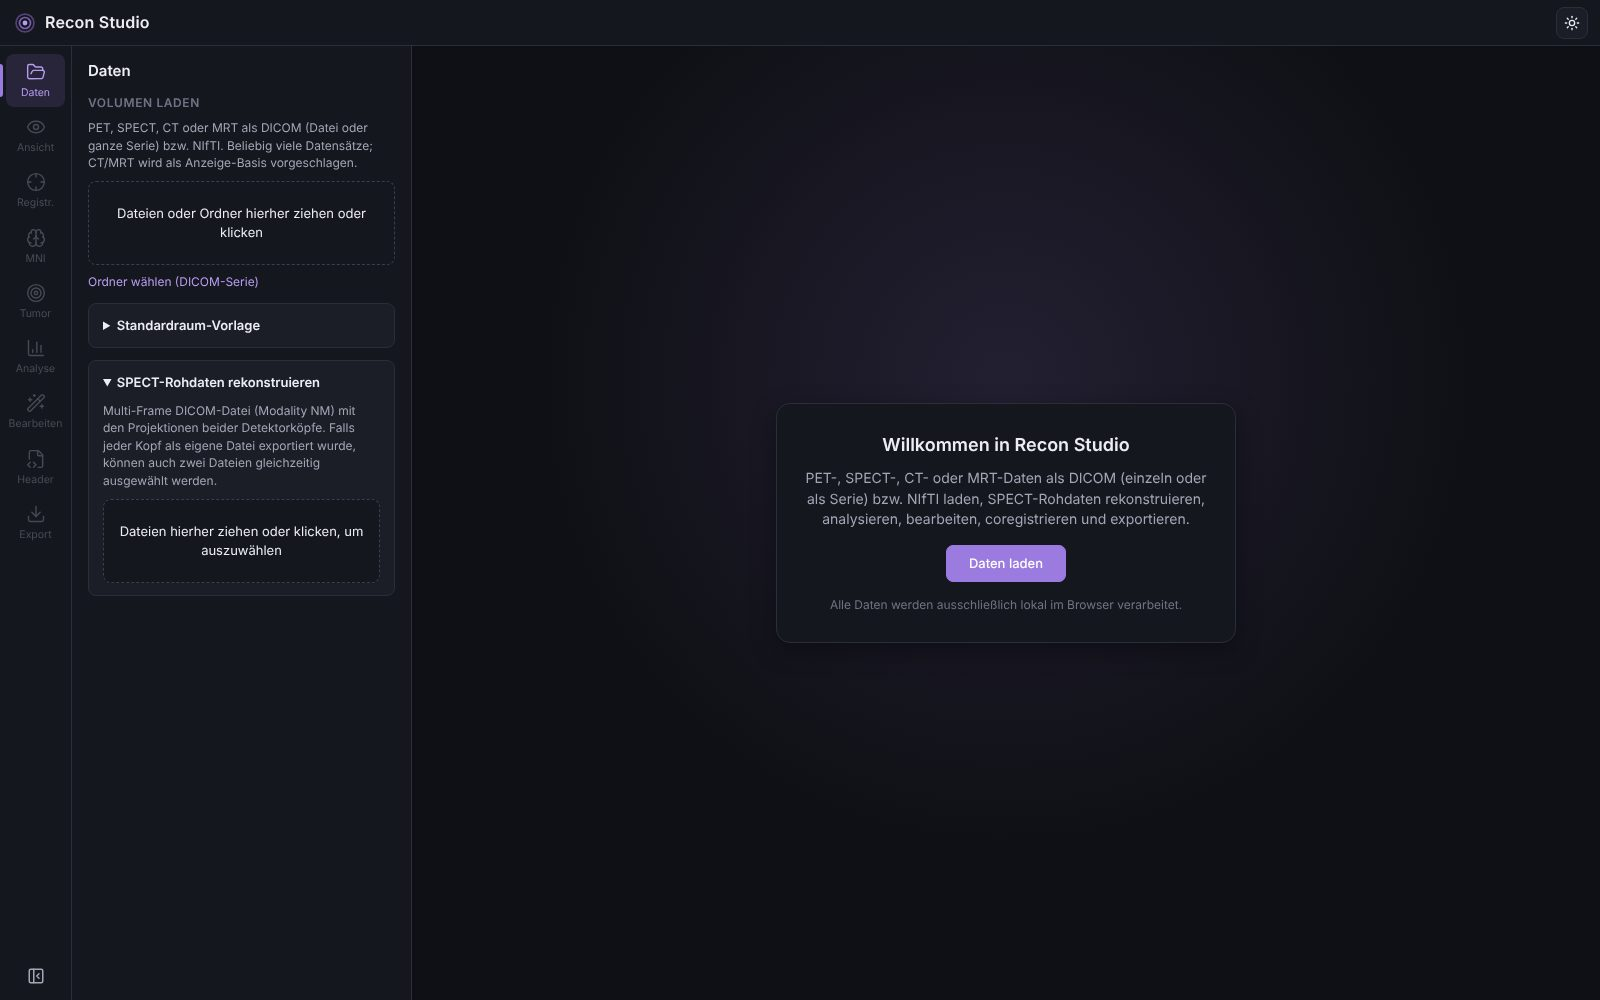
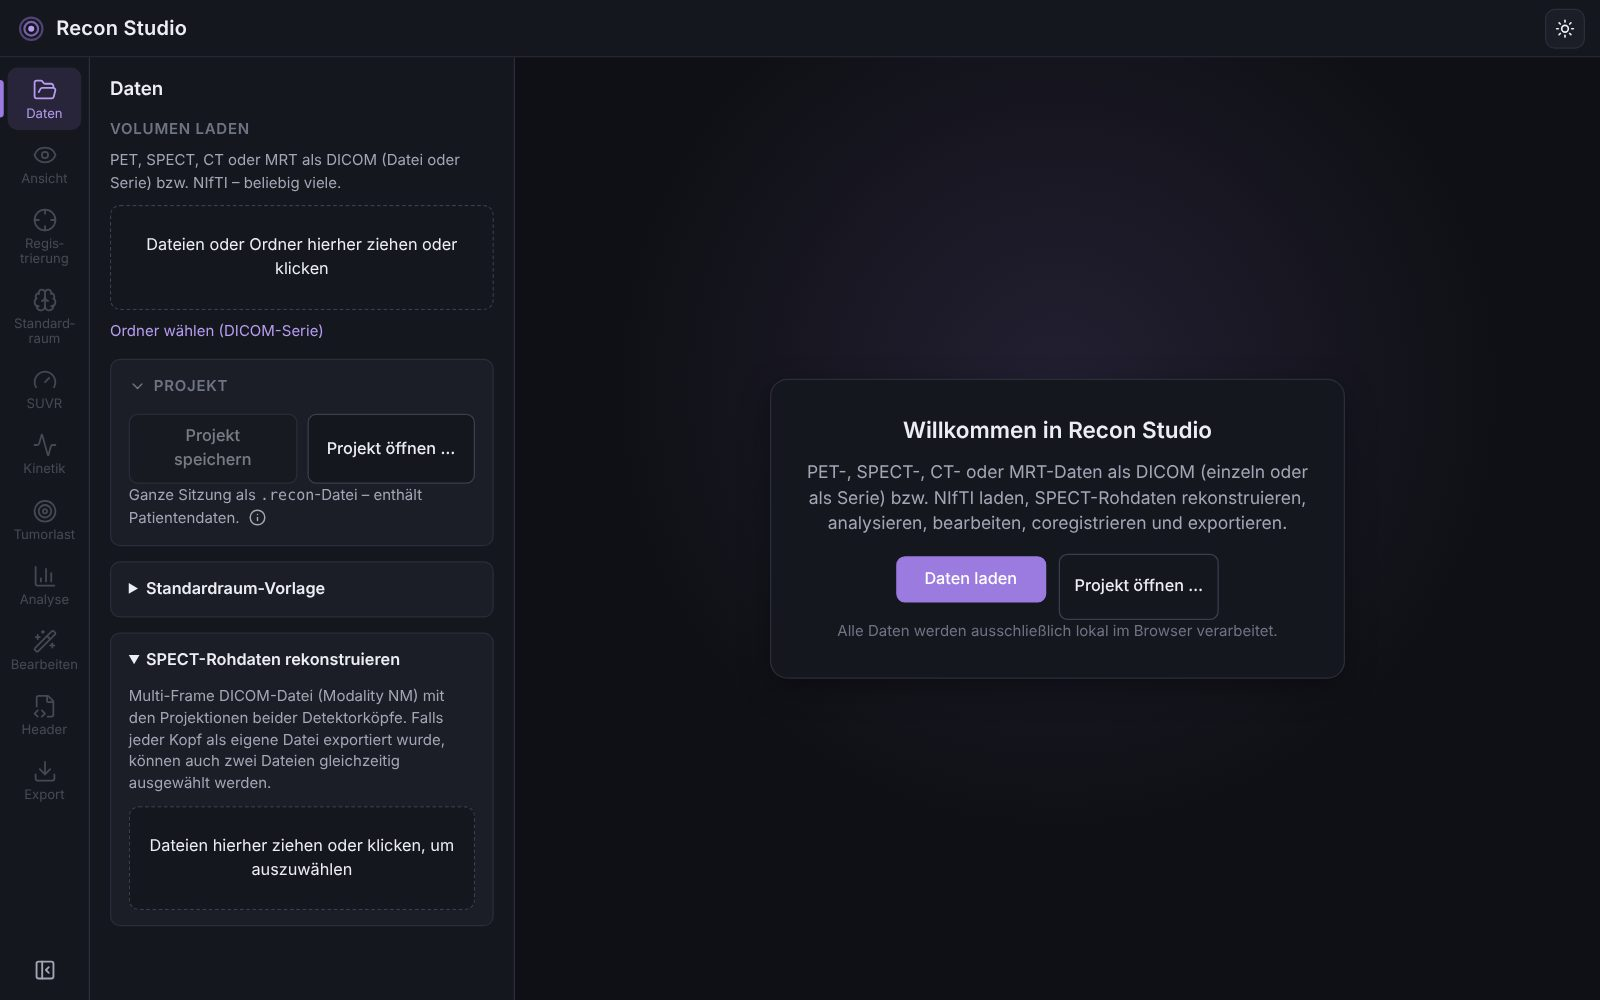
Handbuch und README: Aktivitätsanzeige, Datensatzliste, zurückhaltendes Einblenden, Projektdatei, Karten, Farbskala, große Tabellen, Bereich Centiloid & SUVR; neue Screenshots
Claude-Session: https://claude.ai/code/session_0193t6cZ8YpywZQWotSSRSJ4

diff --git a/src/App.css b/src/App.css
@@ -2212,3 +2212,13 @@ tr.excluded-row td {
 .welcome-actions .secondary-btn {
   width: auto;
 }
+.inline-select {
+  max-width: 100%;
+  padding: 2px 6px;
+  border-radius: 6px;
+  border: 1px solid var(--border);
+  background: var(--surface-2);
+  color: var(--text-h);
+  font: inherit;
+  font-size: 12px;
+}

diff --git a/MANUAL.md b/MANUAL.md
@@ -26,18 +26,25 @@ Beispieldaten (keine Patientendaten).
 
 ![Startbildschirm](docs/images/01-start.jpg)
 
-- **Linke Leiste**: die Arbeitsbereiche *Daten, Ansicht, Registrierung, MNI (Standardraum), Tumor, Analyse,
-  Bearbeiten, Header, Export*. Ein Klick auf den aktiven Bereich klappt das Seitenpanel ein und aus (ebenso das
-  Symbol unten links).
+- **Linke Leiste**: die Arbeitsbereiche *Daten, Ansicht, Registrierung, Standardraum, Centiloid & SUVR (SUVR), Kinetik,
+  Tumorlast, Analyse, Bearbeiten, Header, Export*. Ein Klick auf den aktiven Bereich klappt das Seitenpanel ein und aus
+  (ebenso das Symbol unten links). Ausgegraute Bereiche nennen im Tooltip den Grund (z. B. „Header nur für DICOM“).
+  Beim Wechsel des Bereichs bleibt alles erhalten – laufende Berechnungen, Ergebnisse, aufgeklappte Karten.
 - **Seitenpanel**: Die Breite lässt sich am rechten Rand mit der Maus ziehen (Doppelklick = Standardbreite; mit
   Tastaturfokus ←/→). Die Breite bleibt im Browser gespeichert – praktisch für breite Ergebnistabellen.
   Längere Erläuterungen (Methodik, Literatur, Formate) stecken hinter dem **ⓘ** neben der Kartenüberschrift.
-- **Kopfzeile**: ein Chip je geladenem Datensatz (Modalität, Schlagwort, Dateiname; *Ref* = Referenz/Basis).
-  Ein Klick auf einen Chip macht den Datensatz **aktiv** – darauf beziehen sich Analyse, Bearbeiten, Header und Export.
-  Rechts oben: helles/dunkles Design.
+  **Karten** lassen sich per Klick auf die Überschrift auf- und zuklappen; rechts steht ihr Status (z. B.
+  *✓ korrigiert*, *läuft*, *25 Frames*). Erledigte Schritte (z. B. Bewegungskorrektur, Normalisierung) klappen von
+  selbst zu.
+- **Kopfzeile**: die **Aktivitätsanzeige** – laufende Berechnungen (Laden, Registrierung, Normalisierung,
+  CT-Segmentierung, Kinetik, Centiloid, Export …) mit Fortschritt, kurz *fertig* nach Abschluss, Fehler mit ⚠.
+  Ein Klick öffnet den zuständigen Bereich (dort lässt sich abbrechen). Ohne laufende Aufgabe steht dort die Zahl der
+  geladenen Datensätze. Rechts oben: helles/dunkles Design.
 - **Viewer** (rechts): Layout 2×2, 1+3 oder Einzelbild, *Zoom zurücksetzen*, *Screenshot* (PNG).
-  Rechts in der Viewer-Leiste: **Ebenen** (siehe [Abschnitt 4](#4-ansicht-ebenen-und-fusion)) und **?** (Maus- und
-  Tastenbedienung).
+  Rechts in der Viewer-Leiste: **Skala** (Farbskala ein/aus), **Ebenen** (siehe
+  [Abschnitt 4](#4-ansicht-ebenen-und-fusion)) und **?** (Maus- und Tastenbedienung).
+  Die **Farbskala** unten links zeigt für jede farbige Ebene Farbtabelle und Fenster (Min/Max in SUV, HU, BP_ND …) und
+  bei Labelbildern die Region unter dem Cursor; sie erscheint auch im Screenshot.
   Statuszeile unten: Position in mm (Patientenkoordinaten LPS) und die Werte aller sichtbaren Ebenen unter dem
   Fadenkreuz – je Ebene mit Farbbalken ihrer Farbtabelle, Modalität und Schlagwort bzw. Dateiname; bei Labelbildern
   der Name der Region.
@@ -66,25 +73,43 @@ Alles wird lokal im Browser berechnet; Daten werden nirgendwohin hochgeladen.
    - DICOM: Einzeldatei, Serie oder Multi-Frame, auch Dateien ohne Endung (macOS-Exporte).
    - NIfTI: `.nii` oder `.nii.gz`.
    - Mehrere Serien in einem Upload werden **getrennt** geladen; nicht lesbare Dateien werden übersprungen und gemeldet.
-3. Jeder Datensatz erscheint als Karte (Modalität, Matrix, Voxelgröße, Patientenkoordinaten).
+3. **Was eingeblendet wird**: Der erste Datensatz ist die Basis der Ansicht; ein CT/MRT derselben Körperregion wird
+   Basis, ein PET/SPECT derselben Region (oder mit gleichem Frame of Reference) wird darüber eingeblendet, ebenso
+   Labelbilder auf dem Raster eines angezeigten Datensatzes. Alles andere – z. B. ein zweites PET, ein T1 neben einem
+   Ganzkörper-CT, Daten einer anderen Region – wird geladen, aber **nicht eingeblendet**; ein Hinweis unten rechts nennt
+   diese Datensätze. Einblenden über **Ebenen** im Viewer oder das Auge in der Datensatzliste.
+4. **Datensatzliste**: eine Zeile je Datensatz mit Modalität (farbig), Schlagwort, Name und *Basis*-Markierung.
+   - Klick auf die Zeile: Details (Modalität, Quelle, Matrix, Voxelgröße, Koordinaten, Dynamik) und Schlagwort.
+   - 👁 ein-/ausblenden · ✎ **aktiv** setzen – darauf beziehen sich Analyse, Bearbeiten, Header und Export.
+   - ⋯: *Als Basis der Ansicht*, *Datensatz entfernen*.
    - **Modalität bei NIfTI**: NIfTI-Dateien enthalten keine Modalität. Recon Studio erkennt sie aus einer
      BIDS-JSON-Datei, dem Dateinamen (`_pet`, `_T1w`, `ct`, `spect` …), dynamischen Daten (→ PET) oder dem
      Wertebereich (Luft und Knochen → CT). Die Auswahl *Modalität* in der Karte korrigiert eine falsche Erkennung;
      davon hängen u. a. Anzeige-Basis, CT-Fensterpresets und die Vorauswahl in Registrierung, Centiloid und Tumorlast ab.
-   - **Schlagwort** eintragen (z. B. *Baseline*, *Follow-up*, *CT nativ*) – es erscheint überall in Auswahllisten und
-     in der Kopfzeile.
-   - *Als Referenz*: Datensatz definiert den Anzeigeraum (Basis). CT/MRT wird automatisch Basis.
-   - *Als Overlay* / *Overlay aus*: über der Basis einblenden.
-   - *Bearbeiten/Export*: Datensatz aktiv machen.
-   - *×*: Datensatz entfernen.
-4. **Labelbilder** (Atlas, CT-Organe, Läsionsmasken) werden beim Laden automatisch erkannt und als farbiges
+   - **Schlagwort** eintragen (z. B. *Baseline*, *Follow-up*, *CT nativ*) – es erscheint überall in Auswahllisten,
+     Statuszeile und Ebenen.
+5. **Labelbilder** (Atlas, CT-Organe, Läsionsmasken) werden beim Laden automatisch erkannt und als farbiges
    Label-Overlay mit Regionsnamen angelegt, wenn
    - die Datei aus Recon Studio exportiert wurde (Regionsnamen stehen im NIfTI-Header),
    - es eine TotalSegmentator-Ausgabe ist,
    - eine Tabelle mit gleichem Namen mitgeladen wird (z. B. `AAL3v1.nii` + `AAL3v1.nii.txt`), oder
    - der Dateiname auf ein Labelbild hindeutet (`…_seg`, `…_dseg`, `labels`, `aseg` …).
-5. Unter **Standardraum-Vorlage** (aufklappen) lassen sich MNI- und SPM-Vorlagen oder eigene Vorlagen laden
+6. Unter **Standardraum-Vorlage** (aufklappen) lassen sich MNI- und SPM-Vorlagen oder eigene Vorlagen laden
    (siehe [Abschnitt 6](#6-standardraum-mni-atlas-und-suvr)).
+
+### Projekt speichern und öffnen
+
+Karte **Projekt** im Bereich *Daten*:
+
+- **Projekt speichern** legt die ganze Sitzung als eine Datei `Recon-Projekt_….recon` ab. Sie enthält:
+  - alle Datensätze (DICOM-Originaldateien mit Header, NIfTI-Volumen, Bearbeitungen, dynamische Frames,
+    Labelbilder mit Regionsnamen, Vorlagen);
+  - Registrierungen, Schlagworte, Anzeige (Basis, Ebenen, Fenster, Farbtabellen) und die Normalisierung;
+  - Centiloid- und Tumorlast-Ergebnisse.
+- Kinetik-Tabellen und Label-Analysen werden nach dem Öffnen per Klick neu berechnet.
+- **Projekt öffnen …** (auch auf der Startseite oder per Ziehen der `.recon`-Datei ins Ladefeld) ersetzt die
+  aktuelle Sitzung nach Rückfrage.
+- Die Datei enthält die Patientendaten der geladenen Bilder – vertraulich behandeln.
 
 ---
 
@@ -160,7 +185,7 @@ schaltet die Liste wieder aus; der Zustand bleibt gespeichert.
 ![Vorlage und Normalisierung](docs/images/14-mni-einstellungen.jpg)
 
 1. Subjekt-Datensätze laden (z. B. T1-MRT + PET) und das PET zuerst auf das T1 registrieren ([Abschnitt 5](#5-registrierung-coregistrierung)).
-2. Bereich **MNI** öffnen, unter *Vorlage* den Standardraum wählen bzw. laden:
+2. Bereich **Standardraum** öffnen, unter *Vorlage* den Standardraum wählen bzw. laden:
    - *MNI152 2009c (T1, 2 mm)* für T1-MRT,
    - *SPM12 PET* (Perfusion) für Hirn-PET ohne MRT, *SPM12 SPECT* für Perfusions-SPECT,
    - eigene Vorlagen im Bereich *Daten* → *Standardraum-Vorlage* (z. B. Amyloid-PET-Vorlage, auch 4D/adaptiv).
@@ -177,25 +202,28 @@ schaltet die Liste wieder aus; der Zustand bleibt gespeichert.
 1. Karte **In Standardraum übertragen**: Datensätze anhaken, die mit dem Subjekt registriert sind (z. B. das PET).
 2. Interpolation wählen, **Übertragen**. Jeder Datensatz wird über seine Registrierung und die Normalisierung des
    Subjekts in den Standardraum resampelt und als `… · MNI152 …` angelegt.
-3. **SPM/CAT12**: ein in SPM/CAT12 berechnetes Verformungsfeld `y_*.nii` laden (statt selbst zu normalisieren) bzw.
+3. **SPM/CAT12** (Karte aufklappen): ein in SPM/CAT12 berechnetes Verformungsfeld `y_*.nii` laden (statt selbst zu normalisieren) bzw.
    die App-Normalisierung als `y_*.nii` speichern.
 
 ### 6.3 Atlas und SUVR
 
 ![Regionale SUVR mit CerebrA](docs/images/16-atlas-suvr.png)
 
-1. Karte **Atlas & SUVR**: *CerebrA-Atlas laden* (102 Regionen, mitgeliefert) oder *Eigener Atlas …*
+1. Bereich **Centiloid & SUVR** (Leiste: *SUVR*), Karte **Atlas & SUVR**: *CerebrA-Atlas laden* (102 Regionen, mitgeliefert) oder *Eigener Atlas …*
    (Labelbild + Tabelle, oder direkt die AAL3-ZIP-Datei von [gin.cnrs.fr](https://www.gin.cnrs.fr/en/tools/aal/)).
 2. **Datensatz** im Standardraum wählen (z. B. das übertragene PET).
 3. **Referenzregion**: Kleinhirnrinde, Kleinhirn gesamt, Pons/Hirnstamm, ganzes Gehirn oder *Eigene Auswahl …*.
 4. **Regionen auswerten** – Tabelle mit Volumen, Mittelwert und SUVR; sortierbar nach Name, Index oder SUVR.
 5. *Tabelle als CSV* exportieren oder *SUVR-Bild anlegen* (neuer Datensatz = Bild / Referenzmittel).
+   Mit **⤢** über der Tabelle öffnet sie sich groß über dem Viewer.
 
 ---
 
 ## 7. Centiloid
 
 ![Centiloid-Karte](docs/images/17-centiloid.png)
+
+Bereich **Centiloid & SUVR** (Leiste: *SUVR*), Karte **Centiloid**.
 
 1. **Centiloid-VOIs laden …**: `Centiloid_Std_VOI.zip` von GAAIN herunterladen (Link in der Karte) und die ZIP-Datei
    direkt auswählen. Die VOIs werden wegen der GAAIN-Nutzungsbedingungen nicht mitgeliefert.
@@ -307,7 +335,7 @@ Die Frames sollten zerfallskorrigiert sein; bei nicht korrigierten DICOM-Daten w
 
 ![Segmentierung läuft](docs/images/20-ct-segmentierung-laeuft.jpg)
 
-1. CT laden, Bereich **Tumor** öffnen.
+1. CT laden, Bereich **Tumorlast** öffnen.
 2. Karte **CT-Organsegmentierung**: CT wählen → **Organe segmentieren**.
    - Beim ersten Mal wird das Modell (≈ 66 MB) geladen und im Browser gespeichert.
    - Mit WebGPU (Chrome/Edge) läuft es auf der Grafikkarte, sonst auf der CPU (Hinweis in Gelb).
@@ -327,7 +355,7 @@ Die Frames sollten zerfallskorrigiert sein; bei nicht korrigierten DICOM-Daten w
 
 ![Einstellungen Tumorlast](docs/images/22-tumorlast-einstellungen.jpg)
 
-1. PET (und optional CT mit Organsegmentierung) laden; Bereich **Tumor**.
+1. PET (und optional CT mit Organsegmentierung) laden; Bereich **Tumorlast**.
 2. Indikation wählen: **Lymphom (FDG)** oder **PSMA** – setzt passende Methoden und Ausschlussorgane.
 3. **PET** wählen. Bei DICOM mit Dosis/Gewicht wird in SUV gerechnet; sonst erscheint ein Hinweis
    (Werte werden direkt als SUV interpretiert).
@@ -354,7 +382,11 @@ Die Frames sollten zerfallskorrigiert sein; bei nicht korrigierten DICOM-Daten w
 
 Bereich **Analyse**.
 
-### 10.1 Alle Datensätze und Detailanalyse
+**Große Tabellen**: Der Knopf **⤢** über jeder Ergebnistabelle (hier, in Atlas & SUVR, Centiloid, Kinetik und
+Tumorlast) öffnet sie groß über dem Viewer – mit Suche, Sortierung per Klick auf den Spaltenkopf und **CSV**-Export.
+Ein Klick auf eine Zeile wirkt wie in der kleinen Tabelle (z. B. Region ins Histogramm). Schließen mit ✕ oder Esc.
+
+### 11.1 Alle Datensätze und Detailanalyse
 
 ![Übersicht aller Datensätze](docs/images/30-analyse-alle-datensaetze.png)
 
@@ -365,7 +397,7 @@ Bereich **Analyse**.
 3. **Detailanalyse**: Einheit (Originalwerte oder **SUV** aus dem DICOM-Header), Statistik und **Histogramm**
    (Bins, log. Skala, *ohne unterste Bin*).
 
-### 10.2 Label-Analyse
+### 11.2 Label-Analyse
 
 ![Label-Analyse](docs/images/31-label-analyse-karte.png)
 
@@ -438,7 +470,8 @@ Bereich **Export** (aktiver Datensatz):
    3. Interpolation (nächster Nachbar, trilinear, B-Spline; Labelbilder immer nächster Nachbar).
    4. Format *DICOM* (Header der Quelle, Geometrie und Frame of Reference des Ziels) oder *NIfTI* → *Exportieren*.
 3. Fusionen: Bereich **Ansicht** → *Fusion exportieren* ([Abschnitt 4](#4-ansicht-ebenen-und-fusion)).
-   Analyse-Tabellen: CSV-Knöpfe in den jeweiligen Karten.
+   Analyse-Tabellen: CSV-Knöpfe in den jeweiligen Karten oder **⤢** → *CSV*.
+4. Ganze Sitzung: **Projekt speichern** im Bereich *Daten* ([Abschnitt 2](#projekt-speichern-und-öffnen)).
 
 ---
 
@@ -457,3 +490,5 @@ Bereich **Export** (aktiver Datensatz):
 - **Registrierung weit daneben** (Daten aus verschiedenen Untersuchungen): *Grobsuche* aktivieren, ggf. *Affin* wählen.
 - **Hirnatlas liefert keine Regionen**: Der Datensatz muss im MNI-Raum liegen (Abschnitt 6).
 - **Lange Dateinamen** im Panel: Schlagworte vergeben – sie ersetzen die Namen in Auswahllisten weitgehend.
+- **Datensatz nach dem Laden nicht sichtbar**: Er wurde absichtlich nicht eingeblendet (andere Region, zweites PET …) –
+  über **Ebenen** oder das Auge in der Datensatzliste einblenden.

diff --git a/README.md b/README.md
@@ -16,20 +16,24 @@ Alles läuft im Browser; es gibt keinen Server, **die Daten verlassen den Rechne
 
 | Bereich | Was die App kann |
 |---|---|
-| **Daten** | DICOM (Datei, Serie, Multi-Frame, JPEG Lossless; auch ohne Dateiendung) und NIfTI (`.nii`, `.nii.gz`); mehrere Serien in einem Upload werden getrennt geladen, unlesbare Dateien übersprungen; beliebig viele Datensätze mit Schlagwort; Labelbilder werden als Atlas erkannt |
+| **Daten** | DICOM (Datei, Serie, Multi-Frame, JPEG Lossless; auch ohne Dateiendung) und NIfTI (`.nii`, `.nii.gz`); mehrere Serien in einem Upload werden getrennt geladen, unlesbare Dateien übersprungen; beliebig viele Datensätze mit Schlagwort in einer kompakten Liste; Modalität von NIfTI wird erkannt (änderbar); zurückhaltendes Einblenden (nur was räumlich zusammenpasst); Labelbilder werden als Atlas erkannt |
+| **Projekt** | Ganze Sitzung als `.recon`-Datei speichern und wieder öffnen (Datensätze inkl. DICOM-Header, Registrierungen, Anzeige, Normalisierung, Ergebnisse) |
 | **SPECT-Rekonstruktion** | Projektionen (NM Multi-Frame, 1–2 Köpfe) mit FBP (Rampe, Shepp-Logan, Kosinus, Hamming, Hann, Butterworth) oder OSEM (Subsets, Iterationen) |
-| **Ansicht** | Axial, sagittal, koronar und rotierende MIP in Patientenorientierung; beliebig viele Overlays mit eigener Farbtabelle, eigenem Fenster und eigener Deckkraft; Ebenen an/aus; WebGL2-Darstellung; Screenshot; Fusion als DICOM/NIfTI exportieren |
+| **Ansicht** | Axial, sagittal, koronar und rotierende MIP in Patientenorientierung; beliebig viele Overlays mit eigener Farbtabelle, eigenem Fenster und eigener Deckkraft; Ebenen-Schnellwahl über den Bildern (in jedem Bereich); Farbskala mit Fenster in SUV/HU/…; Region unter dem Cursor; WebGL2-Darstellung; Screenshot mit Farbskala; Fusion als DICOM/NIfTI exportieren |
 | **Registrierung** | Basis-Datensatz definiert den Raum; beliebige Datensätze darauf registrieren (rigide/affin; NMI, MI, Correlation Ratio, Kreuzkorrelation; Mehrstufen, Grobsuche); Ergebnis prüfen, übernehmen oder verwerfen; manuelle Feinkorrektur; Matrix als JSON |
 | **Standardraum (MNI)** | MNI152-2009c-T1-, SPM-PET- und SPM-SPECT-Vorlage; affine und nichtlineare Normalisierung (SPM-artig); Übertragung coregistrierter Datensätze (z. B. PET über das T1); SPM/CAT12-`y_*.nii` importieren/exportieren |
-| **Atlas & SUVR** | CerebrA (mitgeliefert), AAL3 (ZIP-Download) oder eigener Atlas; regionale Statistik, Referenzregion, SUVR-Tabelle und SUVR-Bild |
-| **Centiloid** | Amyloid-PET mit GAAIN-Standard-VOIs (vom Nutzer geladen); MRT-Pipeline (affin) an den GAAIN-Referenzdaten kalibriert (Florbetaben und PiB, Kreuzvalidierung RMSE 4–6 CL), Standardgleichungen für extern normalisierte Daten, eigene Gleichung; PET-only (nicht validiert) |
+| **Centiloid & SUVR: Atlas** | CerebrA (mitgeliefert), AAL3 (ZIP-Download) oder eigener Atlas; regionale Statistik, Referenzregion, SUVR-Tabelle und SUVR-Bild |
+| **Centiloid & SUVR: Centiloid** | Amyloid-PET mit GAAIN-Standard-VOIs (vom Nutzer geladen); MRT-Pipeline (affin) an den GAAIN-Referenzdaten kalibriert (Florbetaben und PiB, Kreuzvalidierung RMSE 4–6 CL), Standardgleichungen für extern normalisierte Daten, eigene Gleichung; PET-only (nicht validiert) |
 | **Kinetik (dynamisches PET)** | Dynamische DICOM-Serien und 4D-NIfTI (BIDS-JSON); Bewegungskorrektur der Frames; Übertragung in den MNI-Raum (über T1); Referenzregion aus Atlas; **Patlak (Ki_ref)** und **SRTM (BP_ND, R1)** regional und als Parameterkarten, Kurven, CSV – nach dem MATLAB-Paket der Arbeitsgruppe ([ghaefner/kinetic-modeling](https://github.com/ghaefner/kinetic-modeling)) |
 | **CT-Organsegmentierung** | TotalSegmentator „total“ (117 Strukturen, 3 mm) direkt im Browser (WebGPU oder CPU); Regionsliste mit Suche, Ein-/Ausblenden und Sprung zur Region |
 | **Tumorlast** | Läsionen auf dem PET in SUV: SUV-Schwelle (z. B. 4,0 / 2,5 / PSMA 3), 41 % SUVmax, leberbasiert (PERCIST); TMTV/PSMA-TV, TLG/TL-PSMA, SUVmax/peak/mean, Dmax; automatischer Ausschluss physiologischer Anreicherung über CT-Organe; Knochen/Weichteil; Korrektur per Klick und Pinsel; CSV und Maske |
-| **Analyse** | Übersicht aller Datensätze (Min, Mittel, Median, Max, SD, Varianz); Histogramm; SUV aus dem DICOM-Header; VOI auf allen Datensätzen; **Label-Analyse** (Statistik und Histogramm je Region einer Segmentierung oder eines Atlas) mit CSV-Export von Tabellen und Histogrammen je Label |
+| **Analyse** | Übersicht aller Datensätze (Min, Mittel, Median, Max, SD, Varianz); Histogramm; SUV aus dem DICOM-Header; VOI auf allen Datensätzen; **Label-Analyse** (Statistik und Histogramm je Region einer Segmentierung oder eines Atlas) mit CSV-Export von Tabellen und Histogrammen je Label; alle Ergebnistabellen groß über dem Viewer mit Suche, Sortierung und CSV |
 | **Bearbeiten** | Werteoperationen (Schwelle, Bereich, Begrenzen, linear), VOI (Kugel, Quader, Pinsel), Gauß-Glättung, Spiegeln, Drehen, Resampling; rückgängig |
 | **DICOM-Header** | Alle Elemente durchsuchen, ändern, löschen, hinzufügen (mit VR-Prüfung) |
 | **Export** | DICOM mit Original-Header (byte-genau erhalten) oder als neue Serie aus Vorlage, NIfTI mit Orientierung (Labelbilder mit Regionsnamen), Export in den Raum eines anderen Datensatzes, optionale Anonymisierung |
+
+Bedienung: einklappbare Karten mit Status, Erläuterungen hinter ⓘ, verbreiterbares Seitenpanel, Aktivitätsanzeige für
+laufende Berechnungen in der Kopfzeile – Details im [Handbuch](MANUAL.md).
 
 ## Schnellstart
 
